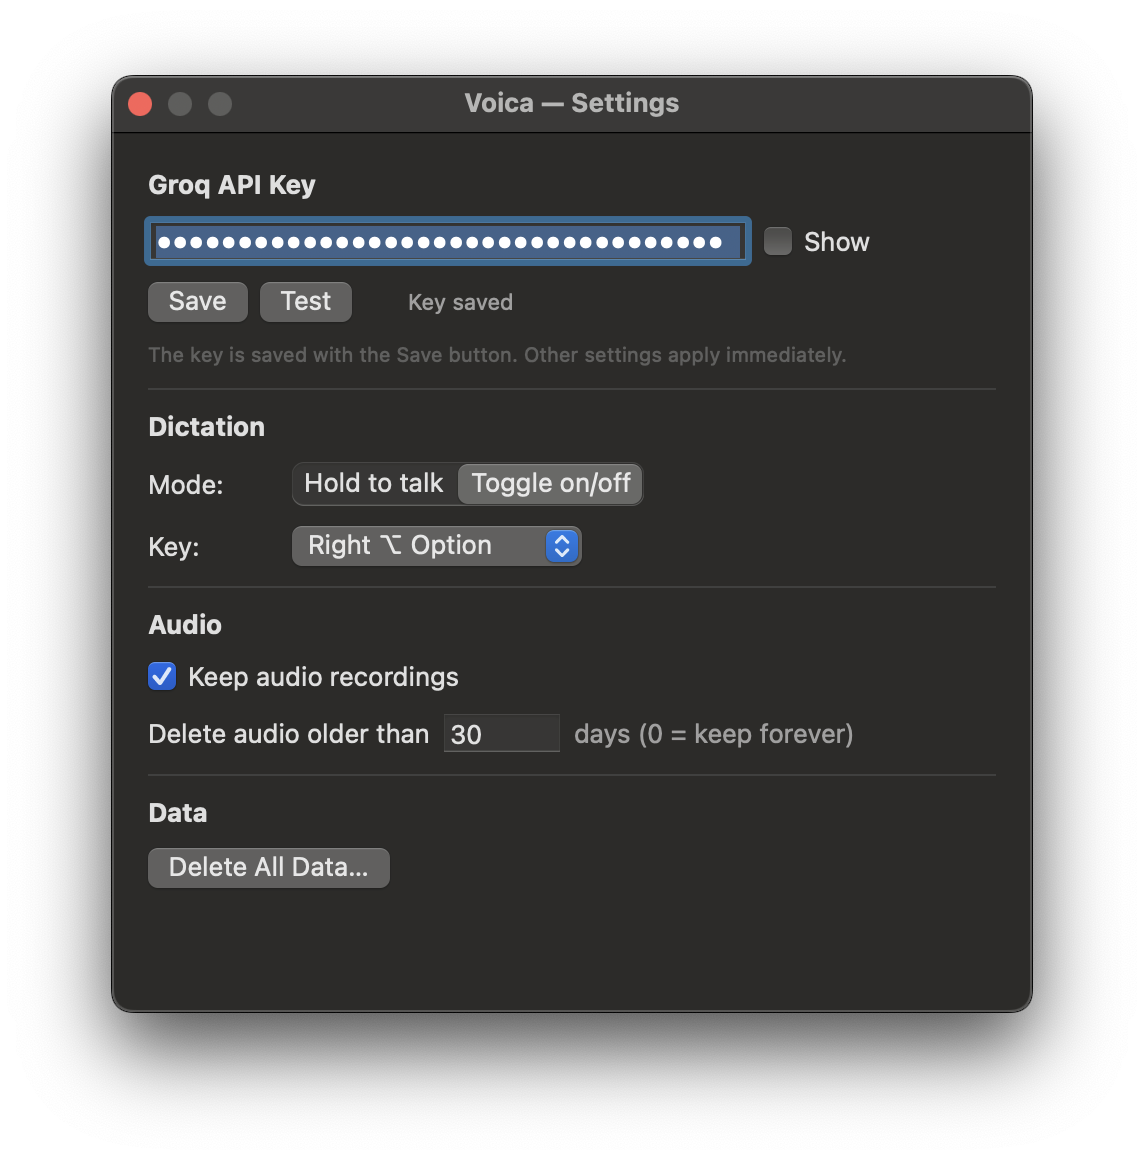
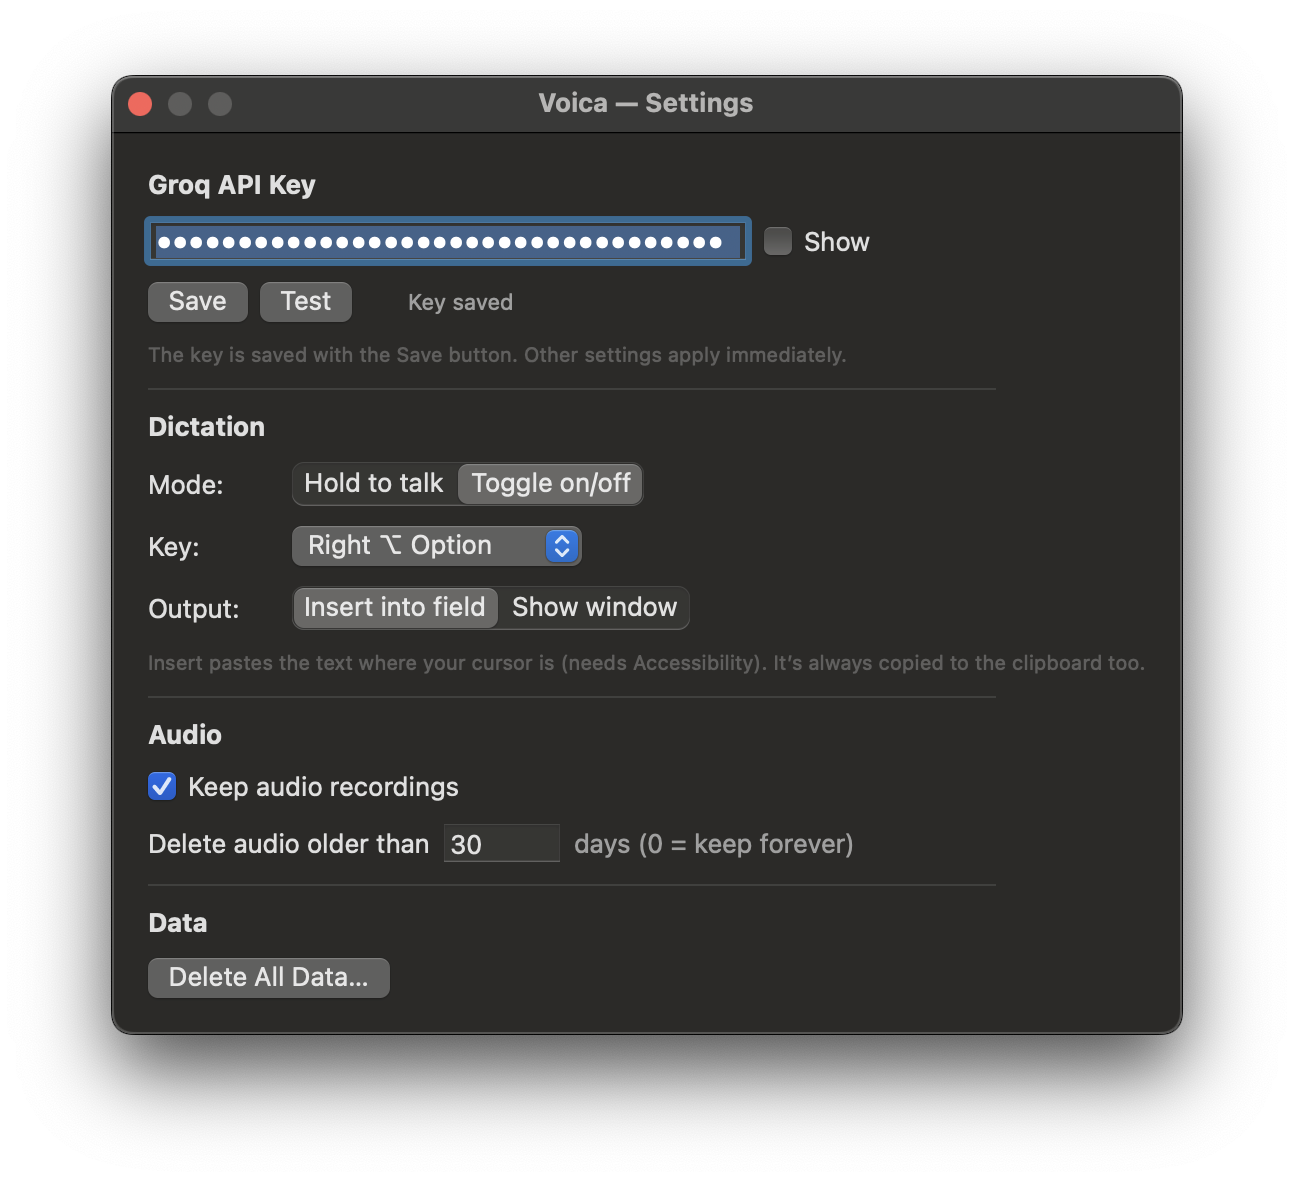
docs: скриншоты 0.4.0 (Output-переключатель) + авто-вставка в README

diff --git a/README.md b/README.md
@@ -19,14 +19,15 @@
 ---
 
 Built-in dictation on macOS/iOS doesn't add punctuation — no periods, commas, or question
-marks. Voica does: dictate by a hotkey and get clean, punctuated text in your clipboard,
-transcribed via [Groq](https://groq.com) Whisper (`whisper-large-v3-turbo`), which is fast
-and cheap.
+marks. Voica does: dictate by a hotkey and get clean, punctuated text inserted right where
+you're typing, transcribed via [Groq](https://groq.com) Whisper (`whisper-large-v3-turbo`),
+which is fast and cheap.
 
 ## Features
 
 - **Hotkey dictation** — push-to-talk (hold) or toggle (press to start / stop).
-- Recognized text is **auto-copied to the clipboard** and shown in an editable window.
+- Recognized text is **inserted into the active field** by default (or shown in an editable
+  window — your choice in Settings), and always copied to the clipboard as a fallback.
 - **History** of all transcriptions (SQLite): review, re-copy, play back the audio, delete.
 - **Audio retention** with auto-cleanup (default 30 days, configurable; text history is kept).
 - **Automatic language detection** (works for mixed speech).

diff --git a/README.ru.md b/README.ru.md
@@ -10,7 +10,8 @@
 ## Возможности
 
 - **Диктовка по горячей клавише**: PTT (зажал-сказал-отпустил) или Toggle (нажал/нажал).
-- Распознанный текст **автоматически копируется в буфер** и показывается в окне (редактируемом).
+- Распознанный текст **вставляется в активное поле** (по умолчанию) — или показывается в
+  редактируемом окне, на выбор в настройках; в буфер копируется всегда, как фолбэк.
 - **История** всех транскрибаций (SQLite) с просмотром, повторным копированием и проигрыванием аудио.
 - **Хранение аудио** с авто-удалением (по умолчанию 30 дней, настраивается; текст истории остаётся).
 - **Автоопределение языка** распознавания (русский + английские вкрапления).